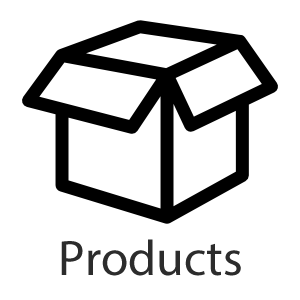
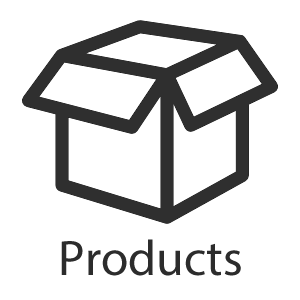
Uploaded new Image named Products.png and updated UI for site/index.php

Changed region(s): [[0.06, 0.06, 0.93, 0.75]]

diff --git a/application/advanced/backend/views/site/index.php b/application/advanced/backend/views/site/index.php
@@ -6,11 +6,11 @@ $this->title = 'RBI Inventory System';
 <div class="site-index">
    <div class="jumbotron">
     <center>
-    <a href="index.php?r=customer"><img src="images/Customers.png"></a>
-    <a href="index.php?r=order"><img src="images/Orders.png"></a>
-    <a href="index.php?r=product-inventory"><img src="images/Products.png"></a>
-    <a href="index.php?r=supplier"><img src="images/Suppliers.png"></a>
-    <a href="index.php?r=transaction"><img src="images/Transactions.png"></a>
+    <a href="index.php?r=customer"><img src="images/Customers.png" onmouseover="this.src='images/Customers1.png'" onmouseout="this.src='images/Customers.png'" alt="Customers"></a>
+    <a href="index.php?r=order"><img src="images/Orders.png" onmouseover="this.src='images/Orders1.png'" onmouseout="this.src='images/Orders.png'" alt="Orders"></a>
+    <a href="index.php?r=product-inventory"><img src="images/Products.png" onmouseover="this.src='images/Products1.png'" onmouseout="this.src='images/Products.png'" alt="Products"></a>
+    <a href="index.php?r=supplier"><img src="images/Suppliers.png" onmouseover="this.src='images/Suppliers1.png'" onmouseout="this.src='images/Suppliers.png'" alt="Suppliers"></a>
+    <a href="index.php?r=transaction"><img src="images/Transactions.png" onmouseover="this.src='images/Transactions1.png'" onmouseout="this.src='images/Transactions.png'" alt="Transactions"></a>
     </center>
    </div>
 </div>
